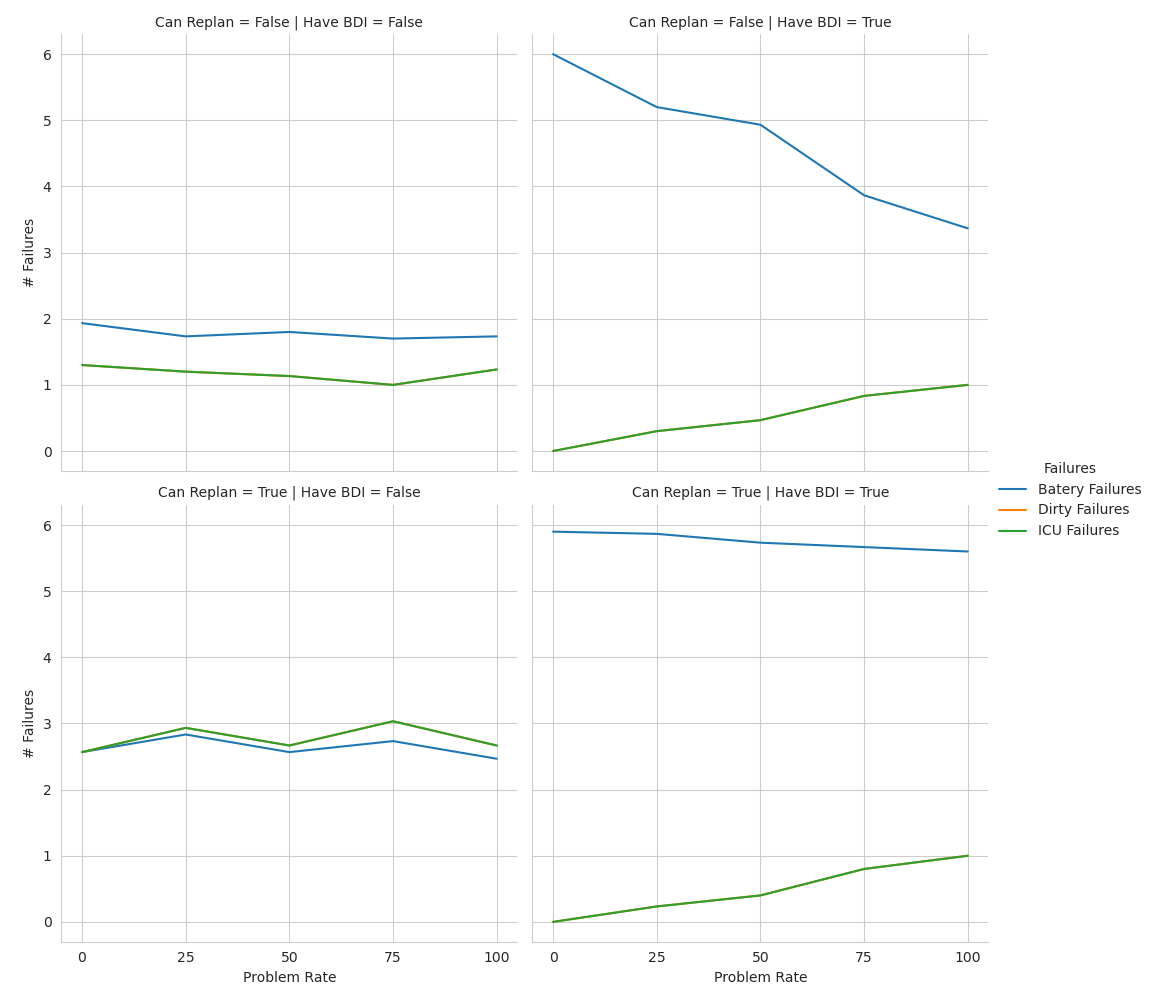
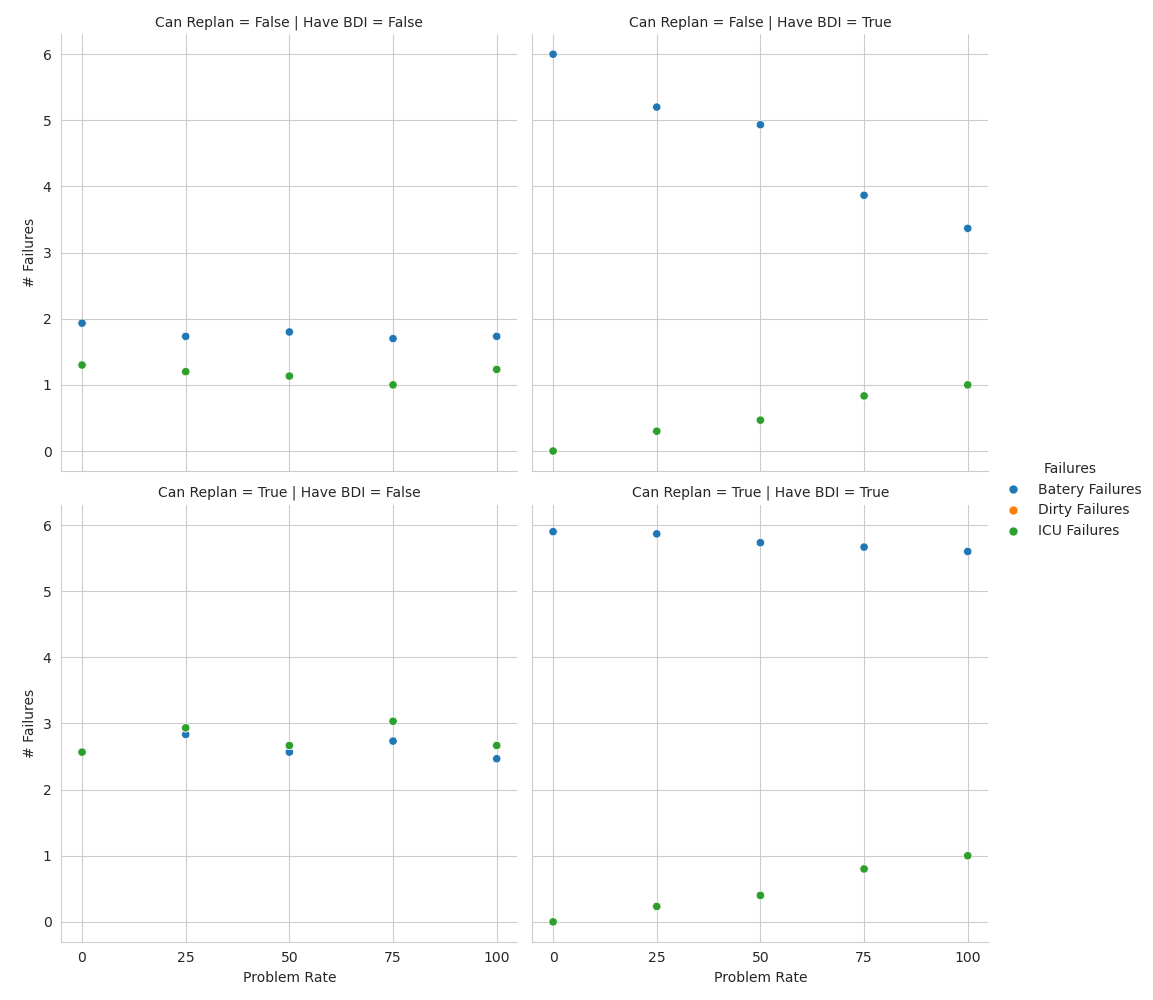
fix failures

diff --git a/src/coordinator/coordinator/disinfect_coordinator_node.py b/src/coordinator/coordinator/disinfect_coordinator_node.py
@@ -1,5 +1,6 @@
 import rclpy
 import json
+import time
 from coordinator.agnostic_coordinator import AgnosticCoordinator, MissionRobot, Mission, MissionStatus
 from coordinator.helper import FIPAMessage,  action_string_to_tuple, action_tuple_to_string
 from std_msgs.msg import String
@@ -184,46 +185,18 @@ class Coordinator(AgnosticCoordinator):
         team = self.get_team()
 
         if(team == None):
-            self.get_logger().info("No team to start mission")
+            if room == 'icu':
+                self.get_logger().info("ERROR|icu_room")
+                self.stop_low_priority_mission()
+                time.sleep(1)
+                team = self.get_team()
+                start_context = self.get_start_context(team, room)
+                self.create_mission(team, start_context, room)
             self.create_empty_mission(room)
             return
 
         start_context = self.get_start_context(team, room)
-        
         self.create_mission(team, start_context, room)
-
-    # def verify_initial_trigger(self):
-    #     for location, disinfected in self.state['disinfected'].items():
-    #         # Verifica se a sala da enfermeira ainda não foi desinfetada
-    #         if not disinfected:
-    #             # Verifica se essa sala já não está em missão
-    #             if all(location not in mission.context for mission in self.missions):
-    #                 self.crr_room = location
-    #                 mission = self.start_mission()
-
-    #                 if mission == None and location == 'icu': 
-    #                     self.get_logger().info(f"ICU EMERGENCY HIGHER!!!!!!!")
-    #                     self.get_logger().info(f"STOP ANOTHER MISSION!")
-    #                     stop_result = self.stop_low_priority_mission()
-    #                     if stop_result:
-    #                         self.get_logger().info(f"Restarting!")
-    #                         self.crr_room = location
-    #                         self.start_mission()
-    #                     else: 
-    #                         self.get_logger().info(f"No mission to stop!")
-
-    #             # else:
-    #                 #self.get_logger().info(f"Room {location} already disinfected by {agent}, skipping mission.")
-    #                 # if agent in self.occ_nurses:
-    #                 #     for agent_context in self.current_team:
-    #                 #         self.free_agent(agent_context)
-    #                 #         self.get_logger().info(f"Freeing agent: {agent_context}")
-    #                     # if  (len(self.room_queue)) > 0:
-    #                     #     self.send_reset_request(self.current_team)
-                        
-    #                         # Verify if the mission is complete
-    #                 # if (len(self.room_queue)) == 0:
-    #                 #     self.verify_mission_complete(agent) 
 
     def get_team_from_context(self, context):
         return [context[2], context[3], context[0]]

diff --git a/src/murosa_plan/murosa_plan/disinfect_environment_node.py b/src/murosa_plan/murosa_plan/disinfect_environment_node.py
@@ -15,7 +15,21 @@ class Environment(Node):
         nurse4Room = ['room4', 'icu']
         self.declare_parameter('problem_rate', rclpy.Parameter.Type.INTEGER)
         uncleaned_percentage = self.get_parameter('problem_rate').get_parameter_value().integer_value
-        uncleaned = random.choices(numberList, weights=(
+        uncleaned1 = random.choices(numberList, weights=(
+            100 - uncleaned_percentage, uncleaned_percentage), k=1)
+        uncleaned2 = random.choices(numberList, weights=(
+            100 - uncleaned_percentage, uncleaned_percentage), k=1)
+        uncleaned3 = random.choices(numberList, weights=(
+            100 - uncleaned_percentage, uncleaned_percentage), k=1)
+        uncleaned4 = random.choices(numberList, weights=(
+            100 - uncleaned_percentage, uncleaned_percentage), k=1)
+        door1 = random.choices(numberList, weights=(
+            100 - uncleaned_percentage, uncleaned_percentage), k=1)
+        door2 = random.choices(numberList, weights=(
+            100 - uncleaned_percentage, uncleaned_percentage), k=1)
+        door3 = random.choices(numberList, weights=(
+            100 - uncleaned_percentage, uncleaned_percentage), k=1)
+        door4 = random.choices(numberList, weights=(
             100 - uncleaned_percentage, uncleaned_percentage), k=1)
         icuRoom = random.choices(nurse4Room, weights=(
             100 - uncleaned_percentage, uncleaned_percentage), k=1)
@@ -25,25 +39,25 @@ class Environment(Node):
                 'nurse_disinfected1': 'room1',
                 'nurse_disinfected2': 'room2', 
                 'nurse_disinfected3': 'room3',
-                'nurse_disinfected4': 'room4',
+                'nurse_disinfected4': icuRoom[0],
                 'uvdrobot1': 'room4', 
                 'spotrobot1': 'room4',
                 'uvdrobot2': 'room4', 
-                'spotrobot2': icuRoom[0]
+                'spotrobot2': 'room4'
             },
             'doors': { 
-                'room1': True, 
-                'room2': True, 
-                'room3': True, 
-                'room4': True, 
-                'icu': True
+                'room1': door1[0], 
+                'room2': door2[0], 
+                'room3': door3[0], 
+                'room4': door4[0], 
+                'icu': door4[0]
             },
             'cleaned': { 
-                'room1': uncleaned[0],
-                'room2': True,
-                'room3': True,
-                'room4': True,
-                'icu': True
+                'room1': uncleaned1[0],
+                'room2': uncleaned2[0],
+                'room3': uncleaned3[0],
+                'room4': uncleaned4[0],
+                'icu': uncleaned4[0]
             },
             'disinfected': {
                 'room1': True,

diff --git a/src/coordinator/coordinator/agnostic_coordinator.py b/src/coordinator/coordinator/agnostic_coordinator.py
@@ -376,24 +376,12 @@ class AgnosticCoordinator(Node):
         
         low_mission = low_priority_missions[0]
 
-        self.get_logger().info("Missions vefore stopping low priority mission:")
-        self.get_logger().info(str(len(self.missions)))
-        for mission in self.missions:
-            self.get_logger().info(", ".join([str(robot) for robot in mission.team]))
-
-        self.get_logger().info(f"Stopping low priority mission with team: {', '.join([str(robot) for robot in low_mission.team])}")
-
         for agent in low_mission.team:
             msg = String()
             msg.data = FIPAMessage(FIPAPerformative.REQUEST.value, 'Coordinator', 'Jason', 'Stop|' + agent.robot).encode()
             self.agent_publisher.publish(msg)
             self.free_agent(agent.robot)
         self.missions.remove(low_mission)
-
-        self.get_logger().info("Missions after stopping low priority mission:")
-        self.get_logger().info(str(len(self.missions)))
-        for mission in self.missions:
-            self.get_logger().info(", ".join([str(robot) for robot in mission.team]))
 
         return True
     

diff --git a/run_simulation_disinfect.py b/run_simulation_disinfect.py
@@ -334,8 +334,8 @@ def analyze_health_log(mission, run_number, runtime, problem_rate, replan, bdi):
             results["total_actions"] = disinfect_log_content.count("Action finished")
             results["total_replans"] = disinfect_log_content.count("Creating plan for:")
             results["battery_failures"] = disinfect_log_content.count("low_battery")
-            results["dirty_failures"] = coordinator_log_content.count("Error found")
-            results["icu_failures"] = coordinator_log_content.count("Error found")
+            results["dirty_failures"] = coordinator_log_content.count("dirty_room")
+            results["icu_failures"] = coordinator_log_content.count("icu_room")
             results["total_missions"] = coordinator_log_content.count("Creating mission")
             results["completed_missions"] = coordinator_log_content.count("Mission Completed")
     except FileNotFoundError:

diff --git a/analyze_results_disinfect.py b/analyze_results_disinfect.py
@@ -37,14 +37,15 @@ def failures(df, plot_dir):
         value_name="# Failures"
     )
 
+    print(summary_long)
+
     g = sns.relplot(
         data=summary_long,
         x="Problem Rate",
         y="# Failures",
         hue="Failures",      # this will separate the lines for Runtime and Battery Failures
         col="Have BDI",
-        row="Can Replan",
-        kind="line"
+        row="Can Replan"
     )
 
     for ax in g.axes.flat:
